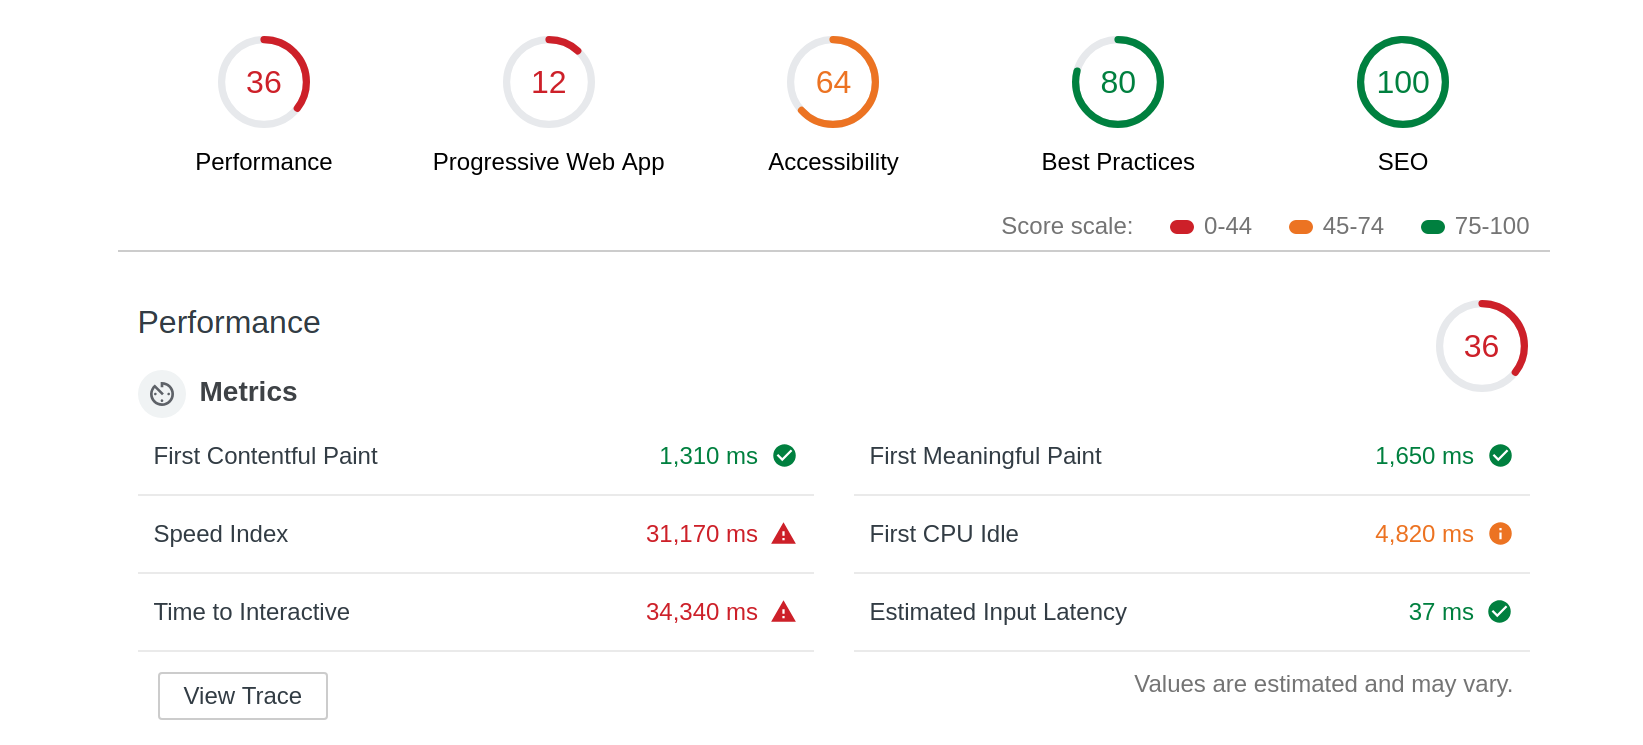
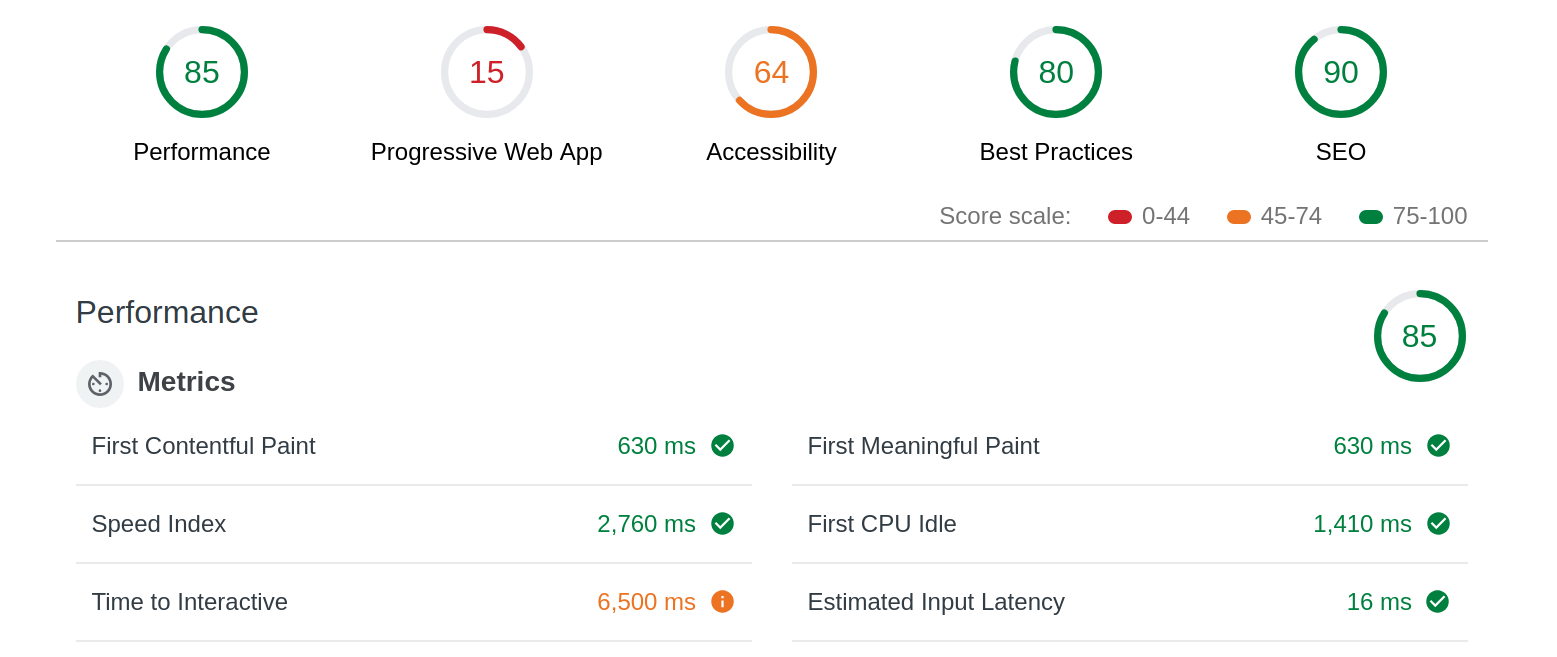
Updating README

diff --git a/README.md b/README.md
@@ -169,6 +169,10 @@ A short overview of the major steps and tasks done. It is completely based on [T
 
 ### The new site performance
 
+> ![New site performance, Lighthouse](./react-src/docs/inu-new-lighthouse.png)
+
+> ![New site performance, WebPageTest](./react-src/docs/inu-new-webpagetest.png)
+
 tbd.
 
 ## Changelog
